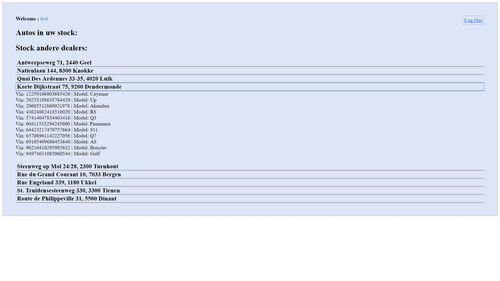
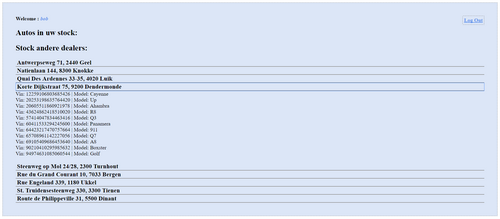
text update

diff --git a/index.htm b/index.htm
@@ -10,10 +10,11 @@
 <script>
 $( function() {
   $(".layover").hide();
-  $('.project').hover(function () {
-    $('.layover', this).slideDown(100);
+  $('.hover').hover(function () {
+    $('.layover', this).height($('img', this).height() + 4);
+    $('.layover', this).fadeIn(300);
   }, function () {
-    $('.layover', this).slideUp(100);
+    $('.layover', this).fadeOut(300);
   });
 });
 </script>
@@ -21,118 +22,134 @@ $( function() {
 <body>
 <header>
   <div id='overlay'>
-    <p id='welcome'>Welkom,</p>
-    <p id='intro'>Lorem ipsum dolor sit amet, consectetur adipiscing elit. Donec risus erat, ultricies quis libero eget, tristique mollis nulla. Nullam rhoncus ante nisl, ut laoreet arcu pharetra vel. Vivamus sollicitudin felis dui. Donec vel maximus nunc. Curabitur egestas et massa id viverra. Etiam urna mi, gravida at tempus sit amet, cursus in libero. Quisque et est cursus, aliquet enim accumsan, iaculis lectus.</p>
-  </div>
+    <p id='welcome'>Hallo!</p>
+    <p>Ik ben Rob Van Keilegom, een 3de jaars student aan Thomas More: Campus De Nayer.
+      Als student ICT ontwikkel ik software. Verder op de pagina kan u al de projecten bekijken waar ik al aan gewerkt heb.
+      Momenteel ben ik op zoek naar een stageplaats voor mijn bachelorproef.
+    </p>
+    <p class="links"><a href=""> CV </a> | <a href=""> Facebook </a> | <a href=""> LinkedIn </a>  | <a href=""> GitLab </a> | <a href=""> E-Mail </a></p>
+    </div>
 </header>
 <main>
   <div id='projects'>
     <h1>Projecten</h1>
-    <div class='project'>
+    <div class='project hover'>
     <h2>TM: PHP MySQL</h2>
     <img src="images/projects/tm_projectphpmysql.png" />
     <div class="layover">
       <a href="https://gitlab.com/RoobieBoobieee/TM_ProjectPHPMySQL" target="_blank"><img src="images/icons/git.png" /></a>
     </div>
-    <p>Lorem ipsum dolor sit amet, consectetur adipiscing elit. Donec risus erat, ultricies quis libero eget, tristique mollis nulla. Nullam rhoncus ante nisl, ut laoreet arcu pharetra vel. Vivamus sollicitudin felis dui. Donec vel maximus nunc. Curabitur egestas et massa id viverra. Etiam urna mi, gravida at tempus sit amet, cursus in libero. Quisque et est cursus, aliquet enim accumsan, iaculis lectus.</p>
+    <p>Dit is een project uit het 2de jaar van mijn bachelor opleiding. Voor het vak PHP - MySQL moest ik een webpagina schrijven voor een restaurant. Personeel kan hier inloggen om menu's en schotels aan te passen. Klanten kunnen inloggen om tafelverdeling te bekijken en te reserveren. In het project is gebruik gemaakt van PHP, HTML, CSS en JS/JQuery en is gekoppeld aan een MySQL database en was gericht op object oriented PHP en het veilig verwerken van data.</p>
     </div>
 
-    <div class='project'>
+    <div class='project hover'>
     <h2>TM: Project 2</h2>
     <img src="images/projects/tm_project2.png" />
     <div class="layover">
       <a href="https://gitlab.com/RoobieBoobieee/tm_project2" target="_blank"><img src="images/icons/git.png" /></a>
     </div>
-    <p>Lorem ipsum dolor sit amet, consectetur adipiscing elit. Donec risus erat, ultricies quis libero eget, tristique mollis nulla. Nullam rhoncus ante nisl, ut laoreet arcu pharetra vel. Vivamus sollicitudin felis dui. Donec vel maximus nunc. Curabitur egestas et massa id viverra. Etiam urna mi, gravida at tempus sit amet, cursus in libero. Quisque et est cursus, aliquet enim accumsan, iaculis lectus.</p>
+    <p>Dit is een project samen met Marlon Stoops en werd gemaakt als eindproject voor onze 2de periode van onze bachelor opleiding. Het is een webpagina waarop studenten kunnen inloggen om hun uurrooster te bekijken. De uurrooster wordt opgehaald via de API van KU Leuven. Dan wordt er via de API van google berekend wanneer de student moet vertrekken om tijdig in de les aan te komen. Als de student kiest voor het openbaar vervoer zullen de trein/bus uren mee verschijnen in de route samen met eventuele overstappen en vertragingen.</p>
     </div>
 
     <div class='project'>
     <h2>Total: Receptie</h2>
     <img src="images/projects/total_receptie.png" />
-    <div class="layover">
-    </div>
-    <p>Lorem ipsum dolor sit amet, consectetur adipiscing elit. Donec risus erat, ultricies quis libero eget, tristique mollis nulla. Nullam rhoncus ante nisl, ut laoreet arcu pharetra vel. Vivamus sollicitudin felis dui. Donec vel maximus nunc. Curabitur egestas et massa id viverra. Etiam urna mi, gravida at tempus sit amet, cursus in libero. Quisque et est cursus, aliquet enim accumsan, iaculis lectus.</p>
+    <p>Dit is een applicatie geschreven voor het loggen van bezoekers in de Total plant in Schoten. De bezoeker kan met zijn gegeven inloggen om zo veilig toegang te verkrijgen tot de plant. Hier werd voornamelijk HTML en PHP gebruikt. Ook heb ik een script ontwikkeld waarmee data weggeschreven wordt naar een Bartender print server voor het afprinten van ettiquetten met de benodigde informatie om terug uit te checken.</p>
     </div>
 
     <div class='project'>
     <h2>Huiskamer Optredens</h2>
     <img src="images/projects/hko.png" />
-    <div class="layover">
-    </div>
-    <p>Lorem ipsum dolor sit amet, consectetur adipiscing elit. Donec risus erat, ultricies quis libero eget, tristique mollis nulla. Nullam rhoncus ante nisl, ut laoreet arcu pharetra vel. Vivamus sollicitudin felis dui. Donec vel maximus nunc. Curabitur egestas et massa id viverra. Etiam urna mi, gravida at tempus sit amet, cursus in libero. Quisque et est cursus, aliquet enim accumsan, iaculis lectus.</p>
+    <p>Huiskamer Optredens is een Joomla! website gemaakt voor het boeken van kleine optredens voor in uw huiskamer. Hiervoor heb ik zelf de Joomla template geschreven. Er werd gekozen voor Joomla zodat de eigenaar eenvoudig zelf artikelen en artiesten kon aanpassen en toevoegen.</p>
     </div>
 
-    <div class='project'>
+    <div class='project hover'>
     <h2>TM: Web Engineering 1</h2>
     <img src="images/projects/tm_projectwebengineering1.png" />
     <div class="layover">
       <a href="https://gitlab.com/RoobieBoobieee/TM_ProjectWebEngineering1" target="_blank"><img src="images/icons/git.png" /></a>
     </div>
-    <p>Lorem ipsum dolor sit amet, consectetur adipiscing elit. Donec risus erat, ultricies quis libero eget, tristique mollis nulla. Nullam rhoncus ante nisl, ut laoreet arcu pharetra vel. Vivamus sollicitudin felis dui. Donec vel maximus nunc. Curabitur egestas et massa id viverra. Etiam urna mi, gravida at tempus sit amet, cursus in libero. Quisque et est cursus, aliquet enim accumsan, iaculis lectus.</p>
+    <p>Deze website is geschreven in het eerste jaar van mijn bachelor opleiding voor het vak Web Engineering 1. De website bevat al de info over mijn eindproject van de eerste fase van de bacheloropleiding. De website bevat PHP, HTML, CSS en JS.</p>
     </div>
 
     <div class='project'>
     <h2>Total: Hazards</h2>
     <img src="images/projects/total_hazards.png" />
-    <div class="layover">
-    </div>
-    <p>Lorem ipsum dolor sit amet, consectetur adipiscing elit. Donec risus erat, ultricies quis libero eget, tristique mollis nulla. Nullam rhoncus ante nisl, ut laoreet arcu pharetra vel. Vivamus sollicitudin felis dui. Donec vel maximus nunc. Curabitur egestas et massa id viverra. Etiam urna mi, gravida at tempus sit amet, cursus in libero. Quisque et est cursus, aliquet enim accumsan, iaculis lectus.</p>
+    <p>Dit is een applicatie geschreven voor de Total plant in Schoten. Met deze web applicatie worden fiches aangemaakt die de gevaren van een product aanduiden. Voor elke grondstof in het bedrijf wordt een fiche aangemaakt zodat het personeel weet wat er bij onregelmatigheden moet gebeuren (bv: spill, brand). De applicatie is geschreven in PHP met achterliggend een MySQL database.</p>
     </div>
 
-    <div class='project'>
+    <div class='project hover'>
     <h2>Total: Dafi</h2>
     <img src="images/projects/total_dafi.png" />
     <div class="layover">
+      <a href="https://gitlab.com/RoobieBoobieee/Total_Dafi" target="_blank"><img src="images/icons/git.png" /></a>
     </div>
-    <p>Lorem ipsum dolor sit amet, consectetur adipiscing elit. Donec risus erat, ultricies quis libero eget, tristique mollis nulla. Nullam rhoncus ante nisl, ut laoreet arcu pharetra vel. Vivamus sollicitudin felis dui. Donec vel maximus nunc. Curabitur egestas et massa id viverra. Etiam urna mi, gravida at tempus sit amet, cursus in libero. Quisque et est cursus, aliquet enim accumsan, iaculis lectus.</p>
+    <p>Dit is een Excel macro geschreven in VB voor de Total plant in Schoten. De macro verwerkt productie data uit een MS SQL database en genereert grafieken voor een duidelijk visuele vertoning van draaitijden en stilstanden. Via de UI kan er ingesteld hoe de data moet weergegeven worden.</p>
     </div>
 
-    <div class='project'>
+    <div class='project hover'>
     <h2>TM: OOP</h2>
     <img src="images/projects/tm_bandencentrale.png" />
     <div class="layover">
       <a href="https://gitlab.com/RoobieBoobieee/TM_ObjectOrientedProgramming" target="_blank"><img src="images/icons/git.png" /></a>
     </div>
-    <p>Lorem ipsum dolor sit amet, consectetur adipiscing elit. Donec risus erat, ultricies quis libero eget, tristique mollis nulla. Nullam rhoncus ante nisl, ut laoreet arcu pharetra vel. Vivamus sollicitudin felis dui. Donec vel maximus nunc. Curabitur egestas et massa id viverra. Etiam urna mi, gravida at tempus sit amet, cursus in libero. Quisque et est cursus, aliquet enim accumsan, iaculis lectus.</p>
+    <p>Dit is een command-line applicatie geschreven voor het vak Object Oriented Programming in de 2de fase van mijn bachelor opleiding. Het is volledig geschreven in C en is (uiteraard) gericht op het object georienteerd programmeren. De applicatie simuleert een bandencentrale waar personeel en eigenaar kunnen inloggen om artikelen en klanten toe te voegen, verwijderen en aanpassen.</p>
     </div>
 
-    <div class='project'>
+    <div class='project hover'>
     <h2>TM: Databanken</h2>
     <img src="images/projects/tm_projectdatabanken.png" />
     <div class="layover">
       <a href="https://gitlab.com/RoobieBoobieee/TM_ProjectDatabanken" target="_blank"><img src="images/icons/git.png" /></a>
     </div>
-    <p>Lorem ipsum dolor sit amet, consectetur adipiscing elit. Donec risus erat, ultricies quis libero eget, tristique mollis nulla. Nullam rhoncus ante nisl, ut laoreet arcu pharetra vel. Vivamus sollicitudin felis dui. Donec vel maximus nunc. Curabitur egestas et massa id viverra. Etiam urna mi, gravida at tempus sit amet, cursus in libero. Quisque et est cursus, aliquet enim accumsan, iaculis lectus.</p>
+    <p>Deze web applicatie werd geschreven voor het vak Databanken in de eerste fase van mijn bachelor opleiding. Het project dat ik samen met Marlon Stoops heb gedaan is vooral gericht op de achterliggende MySQL database, tabellen en relaties.</p>
     </div>
 
     <div class='project'>
     <h2>Total: LAB3</h2>
     <img src="images/projects/total_lab3.png" />
-    <div class="layover">
-    </div>
-    <p>Lorem ipsum dolor sit amet, consectetur adipiscing elit. Donec risus erat, ultricies quis libero eget, tristique mollis nulla. Nullam rhoncus ante nisl, ut laoreet arcu pharetra vel. Vivamus sollicitudin felis dui. Donec vel maximus nunc. Curabitur egestas et massa id viverra. Etiam urna mi, gravida at tempus sit amet, cursus in libero. Quisque et est cursus, aliquet enim accumsan, iaculis lectus.</p>
+    <p>Deze web applicatie voor de Total plant in Schoten werd in C# geschreven met behulp van het ASP.NET MVC framework. De applicatie is gemaakt om template, hoeveelheid en printer in te stellen en zo hele series etiketten af te druken om later in de productie te gebruiken. </p>
     </div>
 
-    <div class='project'>
+    <div class='project hover'>
     <h2>Happening: Ranked Game</h2>
     <img src="images/no_image.png" />
     <div class="layover">
       <a href="https://gitlab.com/RoobieBoobieee/Happening_RankedGame" target="_blank"><img src="images/icons/git.png" /></a>
     </div>
-    <p>Lorem ipsum dolor sit amet, consectetur adipiscing elit. Donec risus erat, ultricies quis libero eget, tristique mollis nulla. Nullam rhoncus ante nisl, ut laoreet arcu pharetra vel. Vivamus sollicitudin felis dui. Donec vel maximus nunc. Curabitur egestas et massa id viverra. Etiam urna mi, gravida at tempus sit amet, cursus in libero. Quisque et est cursus, aliquet enim accumsan, iaculis lectus.</p>
+    <p>Dat is een plug-in voor de mobiele app: Happening. Happening is een app waar vrienden in groep kunnen chatten, rekeningen delen en spellen spelen. Een daarvan is Ranked Game, een spel waar een vraag voor komt en dan iedereen kan stemmen wie uit de vrienden groep het meeste past bij deze vraag. In deze aangepaste versie van Ranked Game is er een knop om je eigen vragen toe te voegen aan het spel. De plug-in is geschreven in JS/CoffeeScript.</p>
     </div>
 
-    <div class='project'>
+    <div class='project hover'>
     <h2>Portfolio</h2>
     <img src="images/projects/portfolio.png" />
     <div class="layover">
       <a href="https://gitlab.com/RoobieBoobieee/Portfolio" target="_blank"><img src="images/icons/git.png" /></a>
     </div>
-    <p>Lorem ipsum dolor sit amet, consectetur adipiscing elit. Donec risus erat, ultricies quis libero eget, tristique mollis nulla. Nullam rhoncus ante nisl, ut laoreet arcu pharetra vel. Vivamus sollicitudin felis dui. Donec vel maximus nunc. Curabitur egestas et massa id viverra. Etiam urna mi, gravida at tempus sit amet, cursus in libero. Quisque et est cursus, aliquet enim accumsan, iaculis lectus.</p>
+    <p>Dit is mijn portfolio waar al mijn projecten te vinden zijn, met uitleg en de meeste ook met source code.</p>
     </div>
 
+    <div class='project hover'>
+    <h2>DBH: Solar Tracker</h2>
+    <img src="images/projects/solartracker.png" />
+    <div class="layover">
+      <a href="https://gitlab.com/RoobieBoobieee/DBH_SolarTracker" target="_blank"><img src="images/icons/git.png" /></a>
+    </div>
+    <p>Dit is de website van mijn geintegreerde proef als laatste jaar student in Don Bosco Hoboken. Op de website was te zien in welke positie het zonnepaneel staat en hoeveel het opbrengt. Meer info hierover is te vinden op de GitLab pagina. De website is ontwikkeld in ASP.NET.</p>
+    </div>
+
+    <div class='project hover'>
+    <h2>TM: Project 1</h2>
+    <img src="images/projects/tm_project1.png" />
+    <div class="layover">
+      <a href="https://gitlab.com/RoobieBoobieee/TM_Project1" target="_blank"><img src="images/icons/git.png" /></a>
+    </div>
+    <p>Dit is het eindproject voor het eerste jaar van mijn bacheloropleiding dat ik samen met Marlon Stoops heb gedaan. Het is een website waar gebruikers het bekende spel zeeslag kunnen spelen. De schoten werden dan weergegeven op een LED array aangestuurd door een arduino. De website zelf is geschreven in PHP met een achterliggende MySQL database.</p>
+    </div>
+
+    <h1></h1>
   </div>
 </main>
-<footer>&copy; 2016 - Rob Van Keilegom</footer>
+<footer>&copy; 2016 - Rob Van Keilegom - Vragen of opmerkingen? <a href=""> Mail mij!</a></footer>
 </body>
 </html>

diff --git a/stylesheets/style.css b/stylesheets/style.css
@@ -1,7 +1,7 @@
 body {
   overflow-x: hidden;
   font-family: 'Raleway', sans-serif;
-  margin-bottom: 100px;
+  background-color: #f2f2f2;
 }
 
 header {
@@ -14,14 +14,15 @@ header {
 }
 
 main {
-     width: 85vw;
-     margin: 0 auto;
+  width: 85vw;
+  margin: 0 auto;
 }
 
 footer {
   font-size: 8px;
-       width: 85vw;
-       margin: 0 auto;
+  width: 81vw;
+  margin: 10px auto;
+  margin-top: 15vh;
 }
 
 #overlay {
@@ -30,21 +31,33 @@ footer {
   background-color: rgba(0, 0, 0, 0.8);
   color: #FFF;
   padding-left: 5vw;
-  -webkit-box-shadow: inset 0px -30px 20px -10px rgba(255,255,255,1);
-  -moz-box-shadow: inset 0px -30px 20px -10px rgba(255,255,255,1);
-  box-shadow: inset 0px -30px 20px -10px rgba(255,255,255,1);
+  -webkit-box-shadow: inset 0px -30px 20px -10px rgba(242,242,242,1);
+  -moz-box-shadow: inset 0px -30px 20px -10px rgba(242,242,242,1);
+  box-shadow: inset 0px -30px 20px -10px rgba(242,242,242,1);
 }
 
 #welcome {
   font-size: 20vh;
   padding-top: 15vh;
   font-family: 'Lalezar', cursive;
+  color: rgba(255, 255, 255, 0.4)
 }
 
-#intro {
+#overlay p {
    width: 40vw;
    padding-left: 1vw;
 }
+
+#overlay a {
+  color:  #666;
+  text-decoration: none;
+  margin: 0 5px;
+}
+
+ .links {
+   margin-top: 20px;
+  color:  #666;
+ }
 
 .project {
   display: inline-block;
@@ -63,23 +76,23 @@ footer {
 
 .project p {
   text-align: justify;
+  color: #777;
+  line-height: 120%;
 }
 
 .layover {
   width: 100%;
-  height: 10vh;
-  background-color: rgba(0, 0, 0, 0.8);
+  background-color: rgba(242, 242, 242, 0.8);
   position: absolute;
   left: 0px;
   top: 3vh;
-  margin-top: 8vh;
-  border: 1px solid #888;
+  margin-top: 2px;
   text-align: center;
 }
 
 .layover a > img {
   height: 6vh;
-  margin-top: 2vh;
+  margin-top: 6vh;
 }
 
 h1, h2 {
